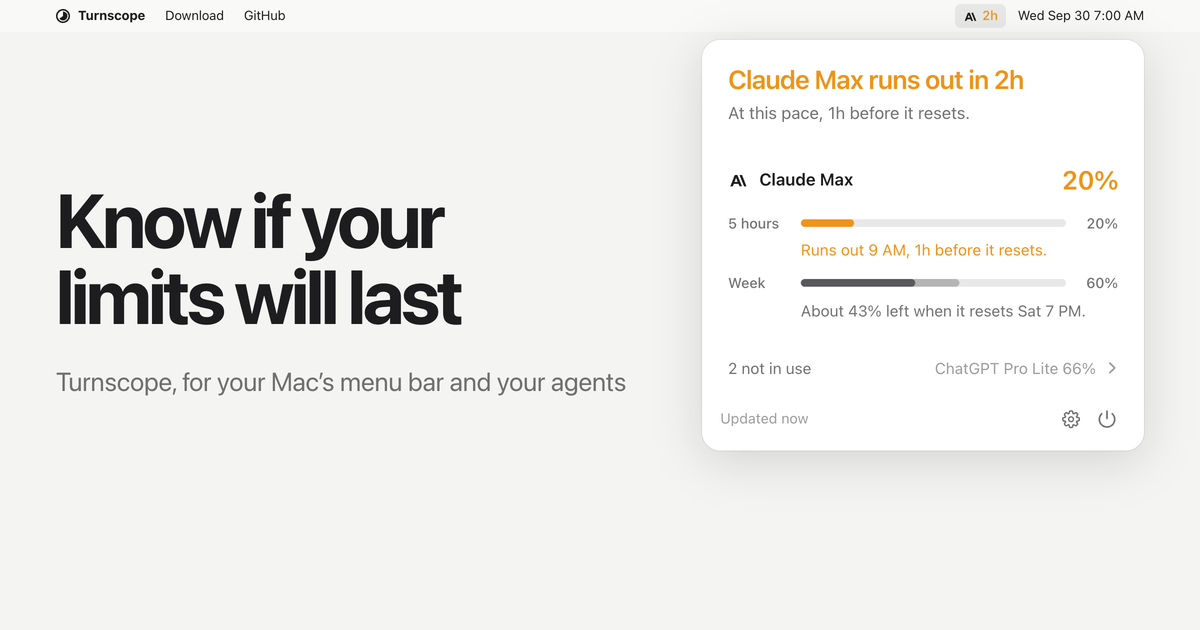
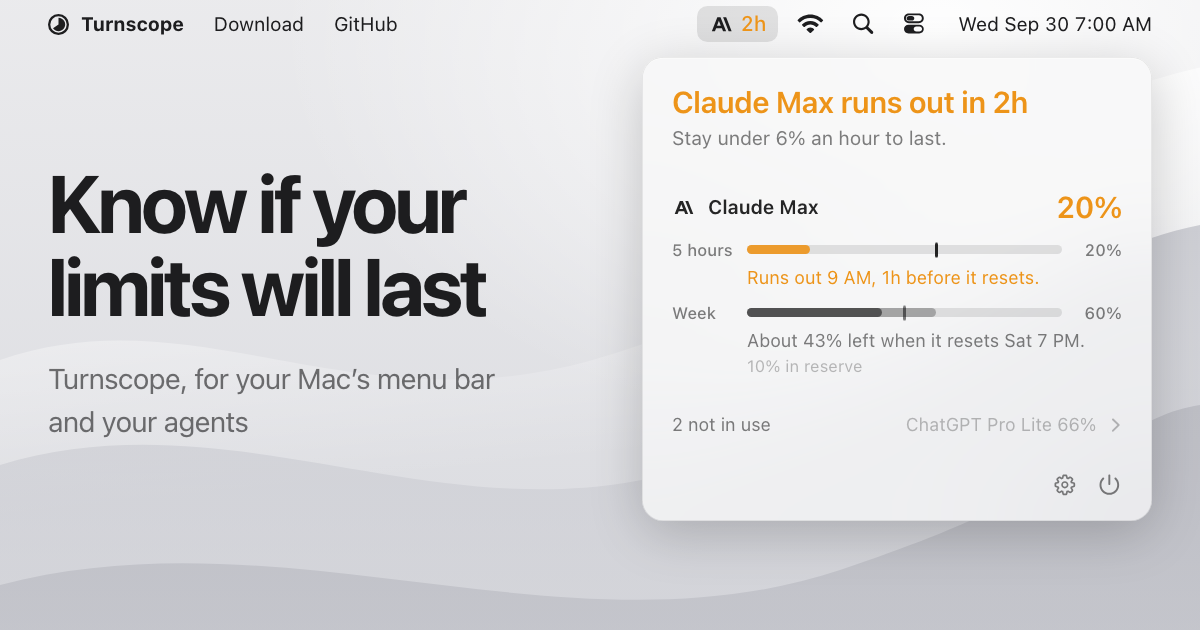
chore(turnscope): draw the social card again from the new hero
The card still showed the old panel, with its "Updated now" and the gap
before the reset where the app says what to keep to. It's drawn again
from the page as it is now: the clear menu bar, the panel's glass over
the desktop, and the headline, in light as before. The README says how,
since nothing in the repo draws it.

diff --git a/sites/turnscope/src/lib/components/Seo.svelte b/sites/turnscope/src/lib/components/Seo.svelte
@@ -42,7 +42,7 @@
   <meta property="og:image:height" content="630" />
   <meta
     property="og:image:alt"
-    content="Turnscope’s menu bar panel: Claude Max runs out in 2 hours, in amber, an hour before it resets."
+    content="Turnscope’s panel, open under its menu bar item: Claude Max runs out in 2 hours, in amber. Stay under 6% an hour to last."
   />
   <meta name="twitter:card" content="summary_large_image" />
   {#if jsonLd}

diff --git a/sites/turnscope/README.md b/sites/turnscope/README.md
@@ -17,7 +17,7 @@ Turnscope is a menu bar item, its panel, notifications and an MCP server, so the
 - `src/lib/components/Terminal.svelte`: a terminal window, for Claude Code's turns.
 - `src/lib/components/Glyph.svelte`: the SF Symbols the page draws (the panel's gear, power, chevrons, lightbulb and checkmark; the menu bar's Wi-Fi, Spotlight and Control Center), exported from macOS as paths at the app's sizes and weights.
 - `src/lib/assets/`: the app icon, rendered from `Turnscope.icon` with Icon Composer's `ictool`, light and dark.
-- `static/social-card.png`: the 1200 × 630 sharing image, the hero at twice the size. Draw it again when the headline or the panel changes.
+- `static/social-card.png`: the 1200 × 630 sharing image: the menu bar, the headline and the panel over the desktop, in light, laid out at 800 × 420 and drawn at one and a half times that size with headless Chrome (`--window-size=800,420 --force-device-scale-factor=1.5`). Draw it again when the headline or the panel changes.
 
 ## Releases
 
